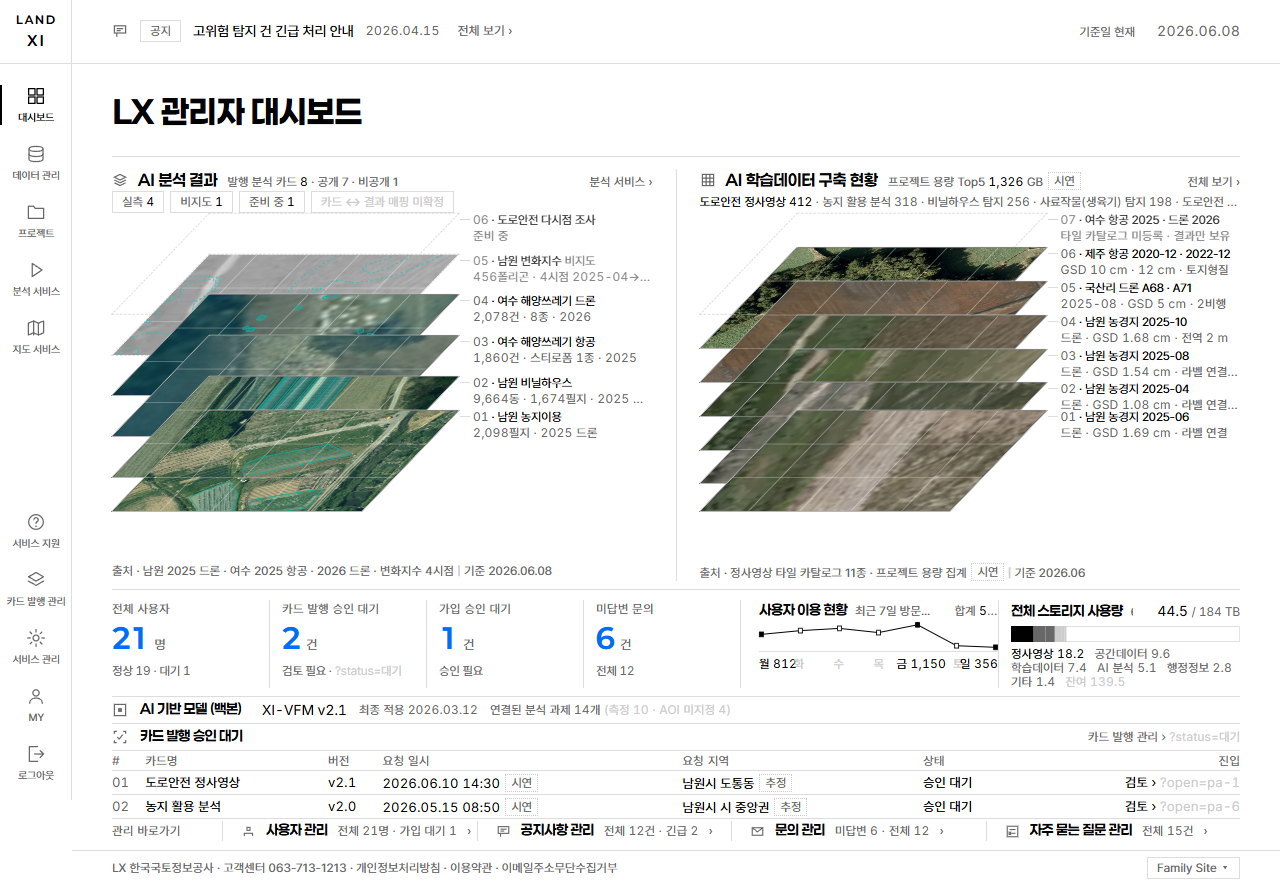
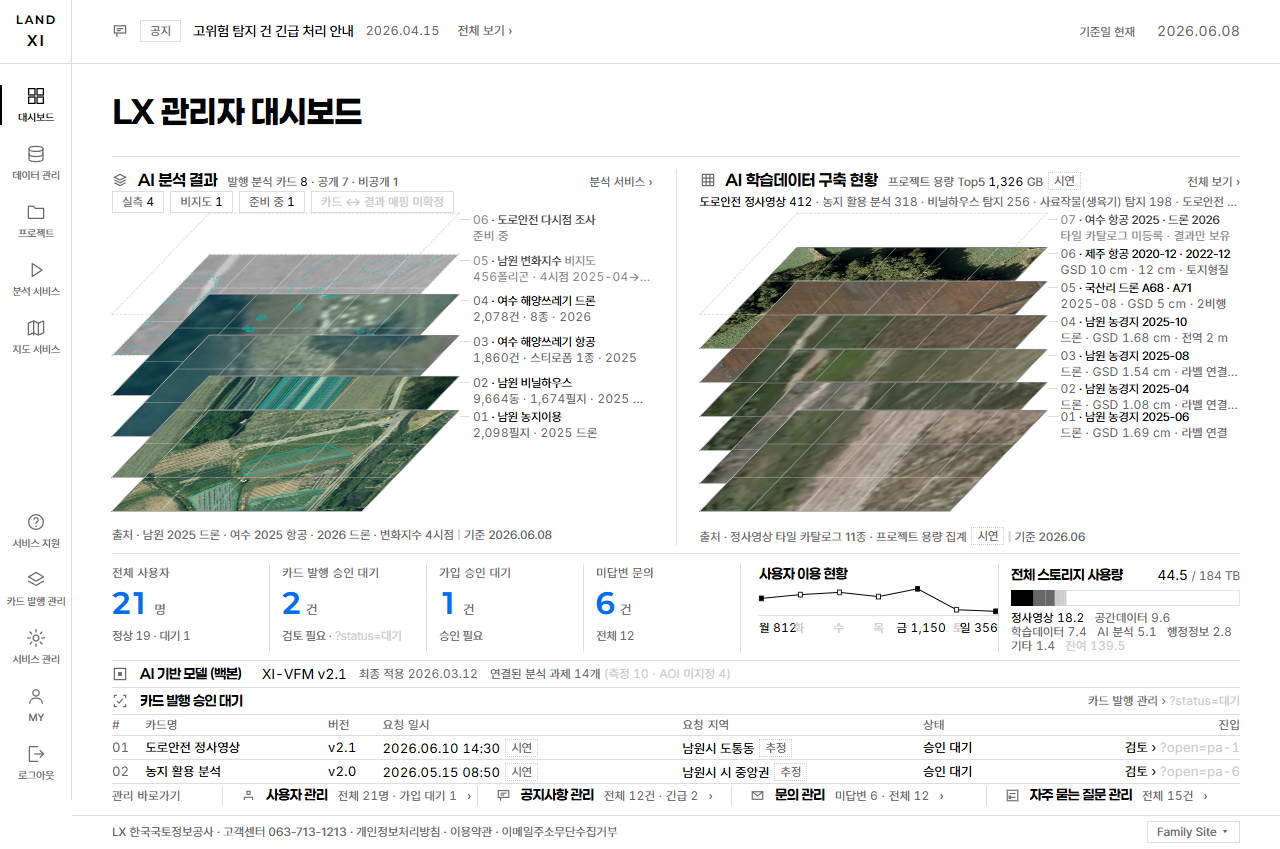
fix(dashboard): 1280 — 스택 높이를 판 배율에 맞추고 띠 부제를 접어 수치가 잘리지 않게
Claude-Session: https://claude.ai/code/session_01WM9MJXSpdbCfwY8af3obk9

diff --git a/landxi/proto/dashboard.css b/landxi/proto/dashboard.css
@@ -111,7 +111,7 @@ html[data-dash] [data-line]>*{ transform:none; }
 .src i{ font-style:normal; color:var(--grey-3); }
 
 /* 판 스택 — 종이 스택. 앞 판(01)이 아래·z 최상, 뒤 판은 pitch 만큼 위로 물러나 윗 띠만 보인다 */
-.plates{ position:relative; height:calc(var(--ph) * var(--ps) + var(--top) + 16px); --top:232px; }
+.plates{ position:relative; height:calc((var(--ph) + var(--top)) * var(--ps) + 16px); --top:232px; }
 .pl{ position:absolute; left:0; width:100%; height:calc(var(--ph) * var(--ps)); display:block;
   transition:transform var(--hov) var(--hove), opacity var(--hov) var(--hove); }
 .pl .box{ position:absolute; left:calc(115px * var(--ps)); top:0; width:296px; height:200px; transform-origin:0 0;
@@ -236,6 +236,7 @@ a.k:hover .ks .dim{ color:var(--accent); }
 /* ══ 반응형 — 1100 미만이면 스택이 세로로 선다 ═══════════════════════════ */
 @media (max-width:1439px){
   #band{ grid-template-columns:repeat(4,minmax(0,1fr)) 278px 262px; }
+  .ch > .mic{ display:none; }                       /* 좁으면 부제(시연 태그)만 접고 수치는 남긴다 */
 }
 @media (max-width:1280px){
   :root{ --m:40px; }
